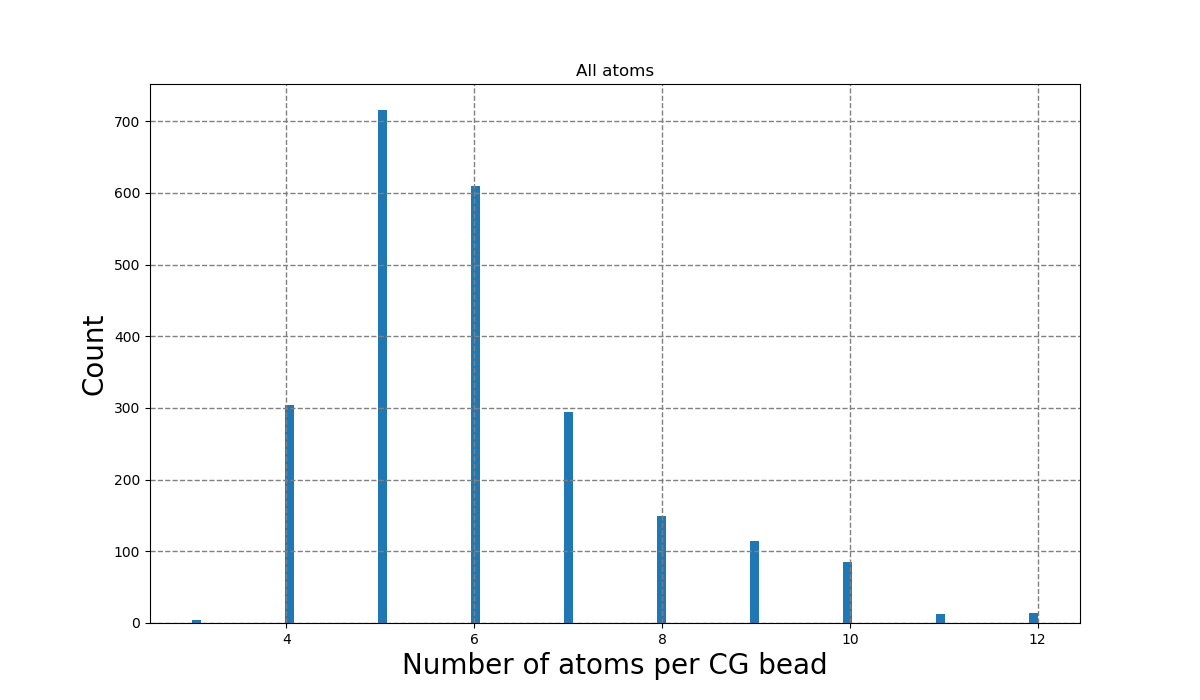
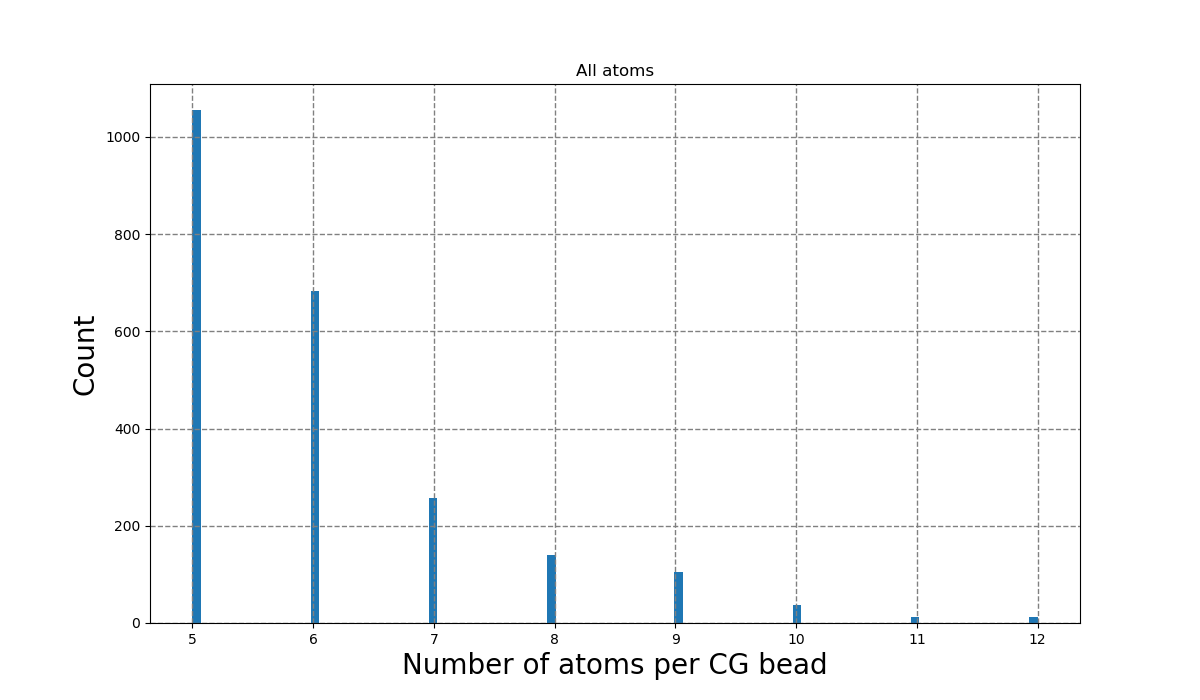
working removal of low atom number CG beads

diff --git a/beadMapping.py b/beadMapping.py
@@ -42,16 +42,17 @@ def CGBeadMappingMain(atoms, CGbeads, spacings):
     checkAssignedAtoms(AllCGBead_AtomIndexes, atoms, spacings, AllDistances, closestCGBeads)
   
     # Fix the atom distribution
-    fixAtomDistribution(6, AllCGBead_AtomIndexes, AllDistances, CGbeads)
-    fixAtomDistribution(5, AllCGBead_AtomIndexes, AllDistances, CGbeads)
-    fixAtomDistribution(4, AllCGBead_AtomIndexes, AllDistances, CGbeads)
+    numIterations = 10
+    for i in range(numIterations):
+        fixAtomDistribution(5, AllCGBead_AtomIndexes, AllDistances, CGbeads, spacings)
+    
 
     # Check the assignements again after the fixing
     checkAssignedAtoms(AllCGBead_AtomIndexes, atoms, spacings, AllDistances, closestCGBeads)
     
     return AllCGBead_AtomIndexes
 
-def fixAtomDistribution(atomsThreshold, AllCGBead_AtomIndexes, AllDistances, CGbeads):
+def fixAtomDistribution(atomsThreshold, AllCGBead_AtomIndexes, AllDistances, CGbeads, spacings):
     # Fixing the atom distribution
     print("Fixing atom distribution...")
     
@@ -72,7 +73,7 @@ def fixAtomDistribution(atomsThreshold, AllCGBead_AtomIndexes, AllDistances, CGb
 
                 for CGbead_index2 in range(len(AllCGBead_AtomIndexes)):
                     if (#isNeighbor(CGbeads[CGbead_index1], CGbeads[CGbead_index2], spacings) and#
-                        #NatomsInBead < len(AllCGBead_AtomIndexes[CGbead_index2]) and #
+                        NatomsInBead < len(AllCGBead_AtomIndexes[CGbead_index2]) and 
                         CGBeadAtomDistances[NatomsInBead] in AllCGBead_AtomIndexes[CGbead_index2]):
 
                         Nfixes += 1
@@ -84,9 +85,9 @@ def fixAtomDistribution(atomsThreshold, AllCGBead_AtomIndexes, AllDistances, CGb
                         AllCGBead_AtomIndexes[CGbead_index1].append(CGBeadAtomDistances[NatomsInBead])
                         
                         NatomsInBead += 1
-                """
+                
                     elif (#isNeighbor(CGbeads[CGbead_index1], CGbeads[CGbead_index2], spacings) and#
-                        #NatomsInBead < len(AllCGBead_AtomIndexes[CGbead_index2]) and#
+                        NatomsInBead < len(AllCGBead_AtomIndexes[CGbead_index2]) and
                         CGBeadAtomDistances[NatomsInBead + 1] in AllCGBead_AtomIndexes[CGbead_index2]):
 
                         Nfixes += 1
@@ -100,7 +101,7 @@ def fixAtomDistribution(atomsThreshold, AllCGBead_AtomIndexes, AllDistances, CGb
                         NatomsInBead += 1
                 
                     elif (#isNeighbor(CGbeads[CGbead_index1], CGbeads[CGbead_index2], spacings) and#
-                        #NatomsInBead < len(AllCGBead_AtomIndexes[CGbead_index2]) and#
+                        NatomsInBead < len(AllCGBead_AtomIndexes[CGbead_index2]) and
                         CGBeadAtomDistances[NatomsInBead + 2] in AllCGBead_AtomIndexes[CGbead_index2]):
 
                         Nfixes += 1
@@ -114,7 +115,7 @@ def fixAtomDistribution(atomsThreshold, AllCGBead_AtomIndexes, AllDistances, CGb
                         NatomsInBead += 1
                 
                     elif (#isNeighbor(CGbeads[CGbead_index1], CGbeads[CGbead_index2], spacings) and#
-                        #NatomsInBead < len(AllCGBead_AtomIndexes[CGbead_index2]) and #
+                        NatomsInBead < len(AllCGBead_AtomIndexes[CGbead_index2]) and 
                         CGBeadAtomDistances[NatomsInBead + 3] in AllCGBead_AtomIndexes[CGbead_index2]):
 
                         Nfixes += 1
@@ -126,9 +127,9 @@ def fixAtomDistribution(atomsThreshold, AllCGBead_AtomIndexes, AllDistances, CGb
                         AllCGBead_AtomIndexes[CGbead_index1].append(CGBeadAtomDistances[NatomsInBead + 3])
                         
                         NatomsInBead += 1
-
+                
                     elif (#isNeighbor(CGbeads[CGbead_index1], CGbeads[CGbead_index2], spacings) and#
-                        #NatomsInBead < len(AllCGBead_AtomIndexes[CGbead_index2]) and#
+                        NatomsInBead < len(AllCGBead_AtomIndexes[CGbead_index2]) and
                         CGBeadAtomDistances[NatomsInBead + 4] in AllCGBead_AtomIndexes[CGbead_index2]):
 
                         Nfixes += 1
@@ -140,9 +141,9 @@ def fixAtomDistribution(atomsThreshold, AllCGBead_AtomIndexes, AllDistances, CGb
                         AllCGBead_AtomIndexes[CGbead_index1].append(CGBeadAtomDistances[NatomsInBead + 4])
                         
                         NatomsInBead += 1
-
+                
                     elif (#isNeighbor(CGbeads[CGbead_index1], CGbeads[CGbead_index2], spacings) and#
-                        #NatomsInBead < len(AllCGBead_AtomIndexes[CGbead_index2]) and#
+                        NatomsInBead < len(AllCGBead_AtomIndexes[CGbead_index2]) and
                         CGBeadAtomDistances[NatomsInBead + 5] in AllCGBead_AtomIndexes[CGbead_index2]):
 
                         Nfixes += 1
@@ -154,9 +155,9 @@ def fixAtomDistribution(atomsThreshold, AllCGBead_AtomIndexes, AllDistances, CGb
                         AllCGBead_AtomIndexes[CGbead_index1].append(CGBeadAtomDistances[NatomsInBead + 5])
                         
                         NatomsInBead += 1
-
+                
                     elif (#isNeighbor(CGbeads[CGbead_index1], CGbeads[CGbead_index2], spacings) and#
-                       # NatomsInBead < len(AllCGBead_AtomIndexes[CGbead_index2]) and#
+                        NatomsInBead < len(AllCGBead_AtomIndexes[CGbead_index2]) and
                         CGBeadAtomDistances[NatomsInBead + 6] in AllCGBead_AtomIndexes[CGbead_index2]):
 
                         Nfixes += 1
@@ -168,7 +169,7 @@ def fixAtomDistribution(atomsThreshold, AllCGBead_AtomIndexes, AllDistances, CGb
                         AllCGBead_AtomIndexes[CGbead_index1].append(CGBeadAtomDistances[NatomsInBead + 6])
                         
                         NatomsInBead += 1
-                """
+                
                         
 
     print("Number of beads with less atoms than the threshold value:", smallBeads)
